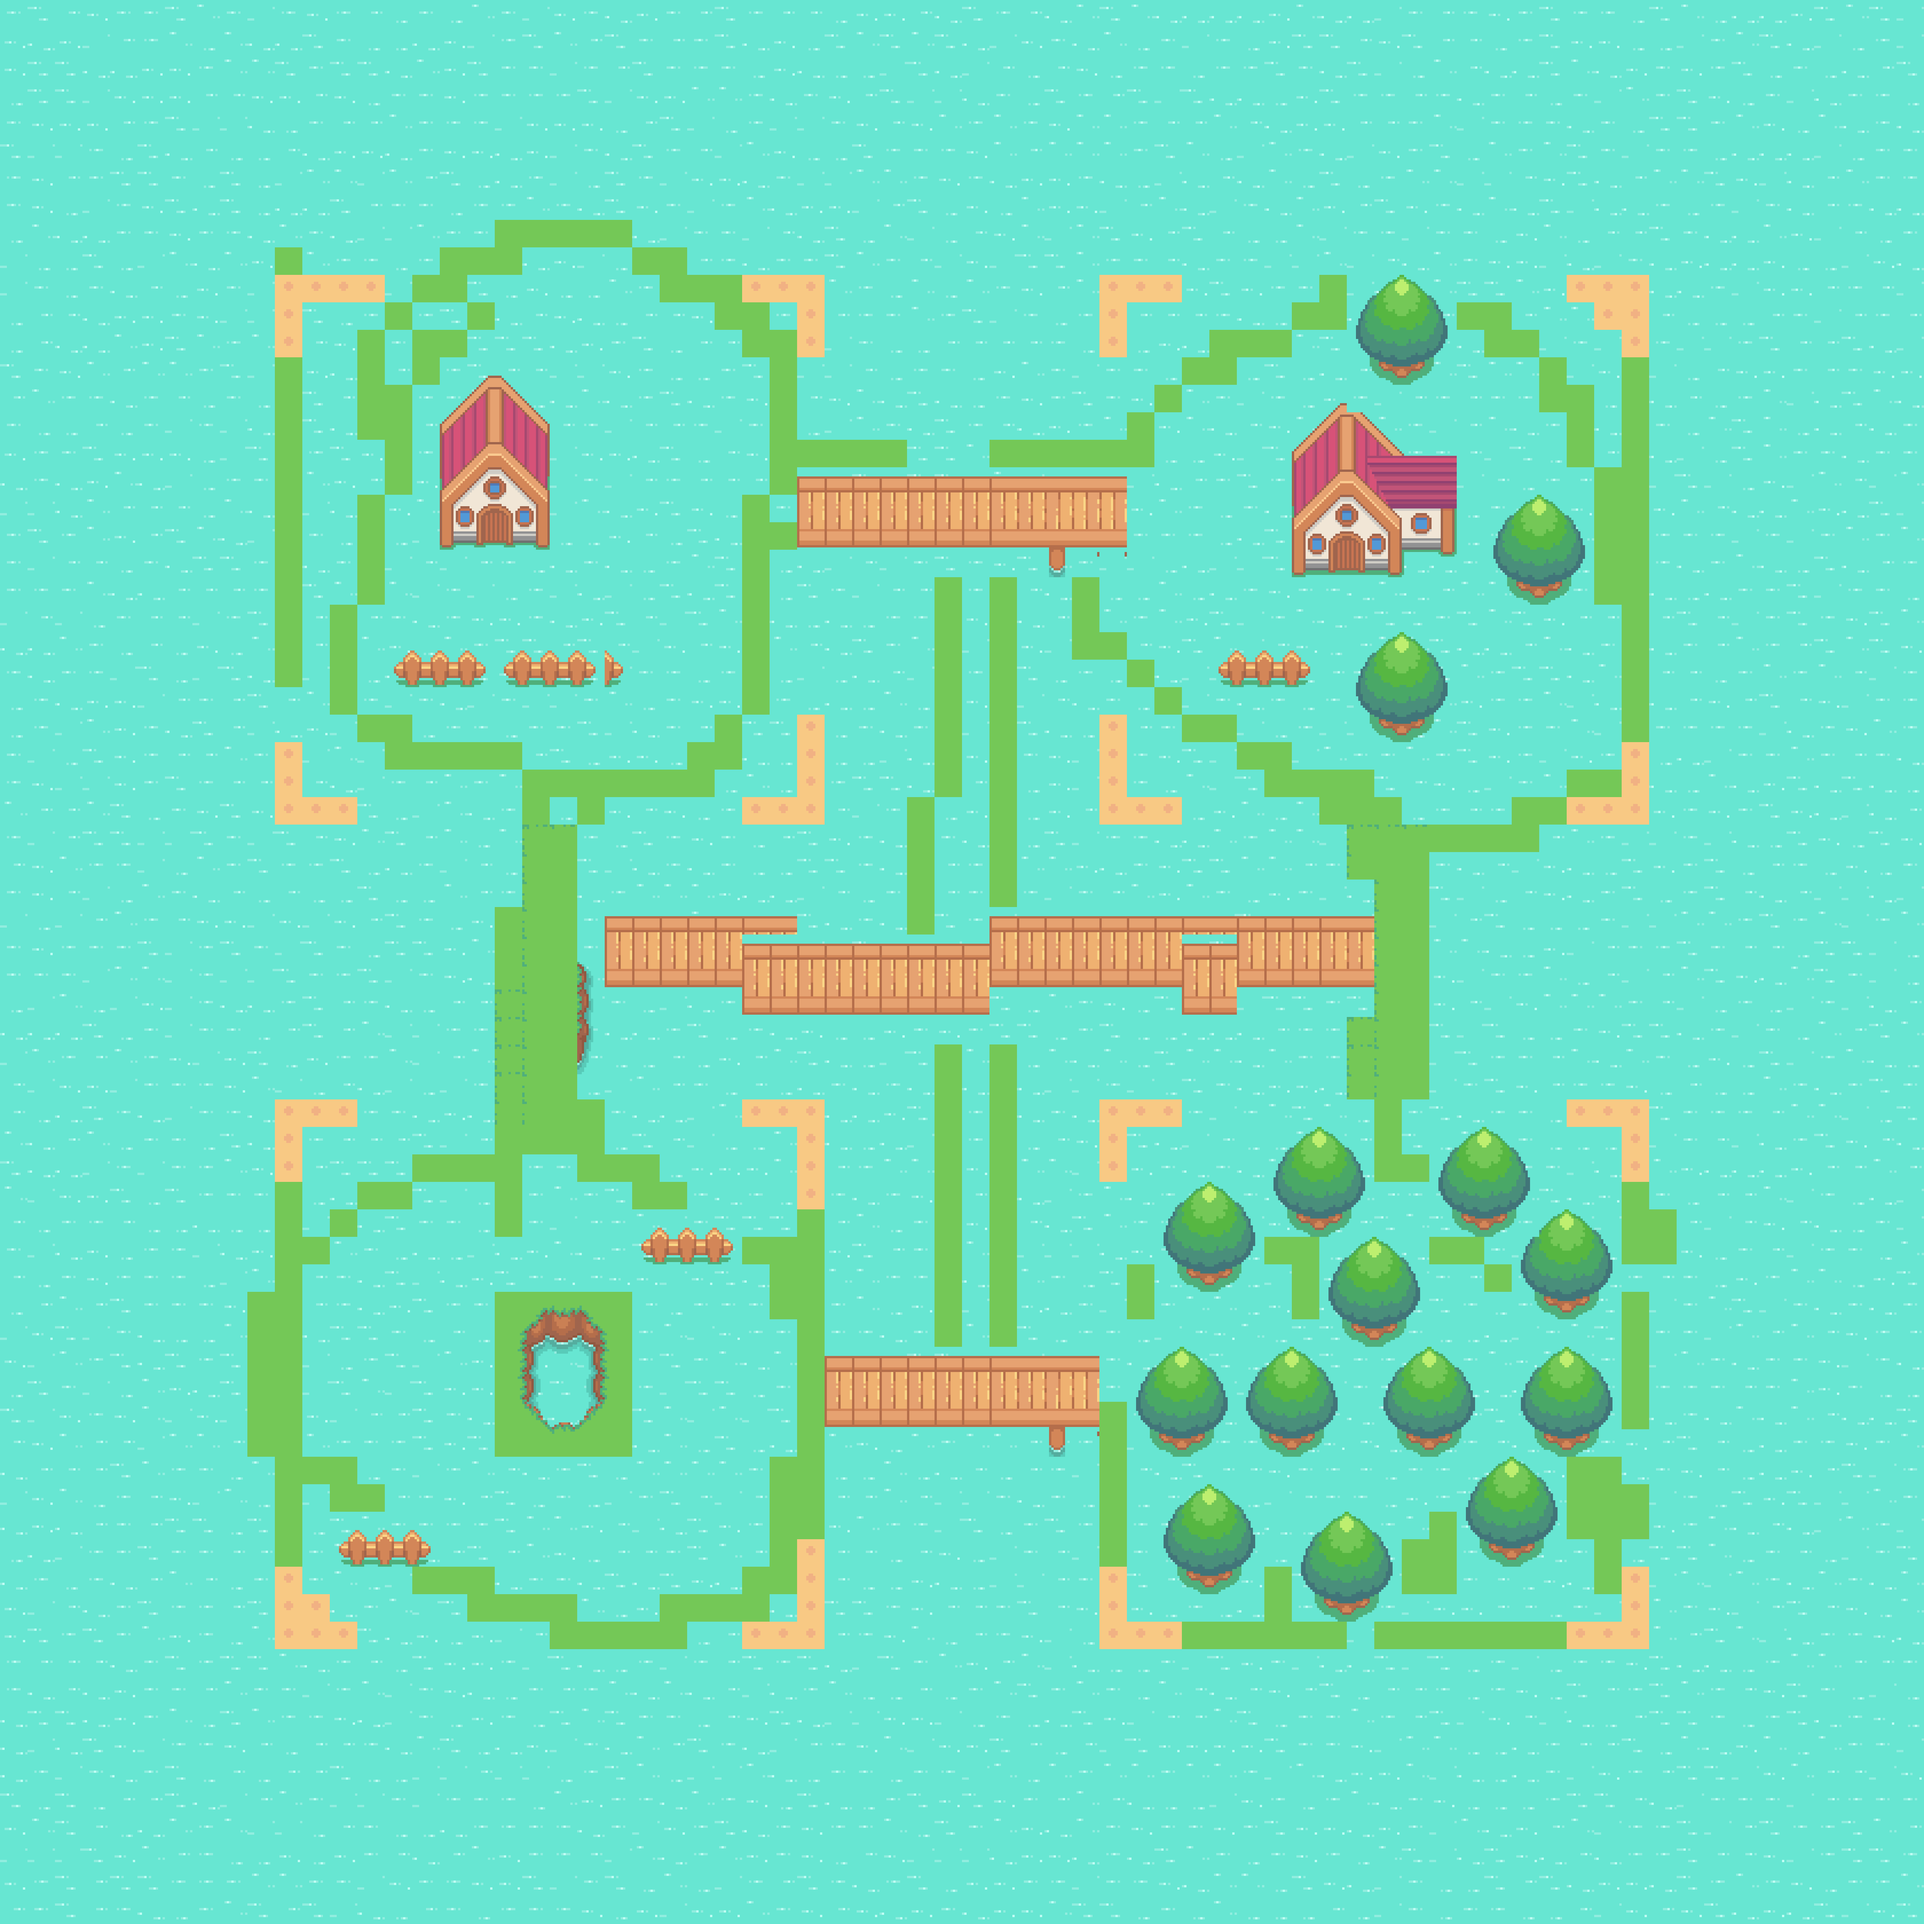
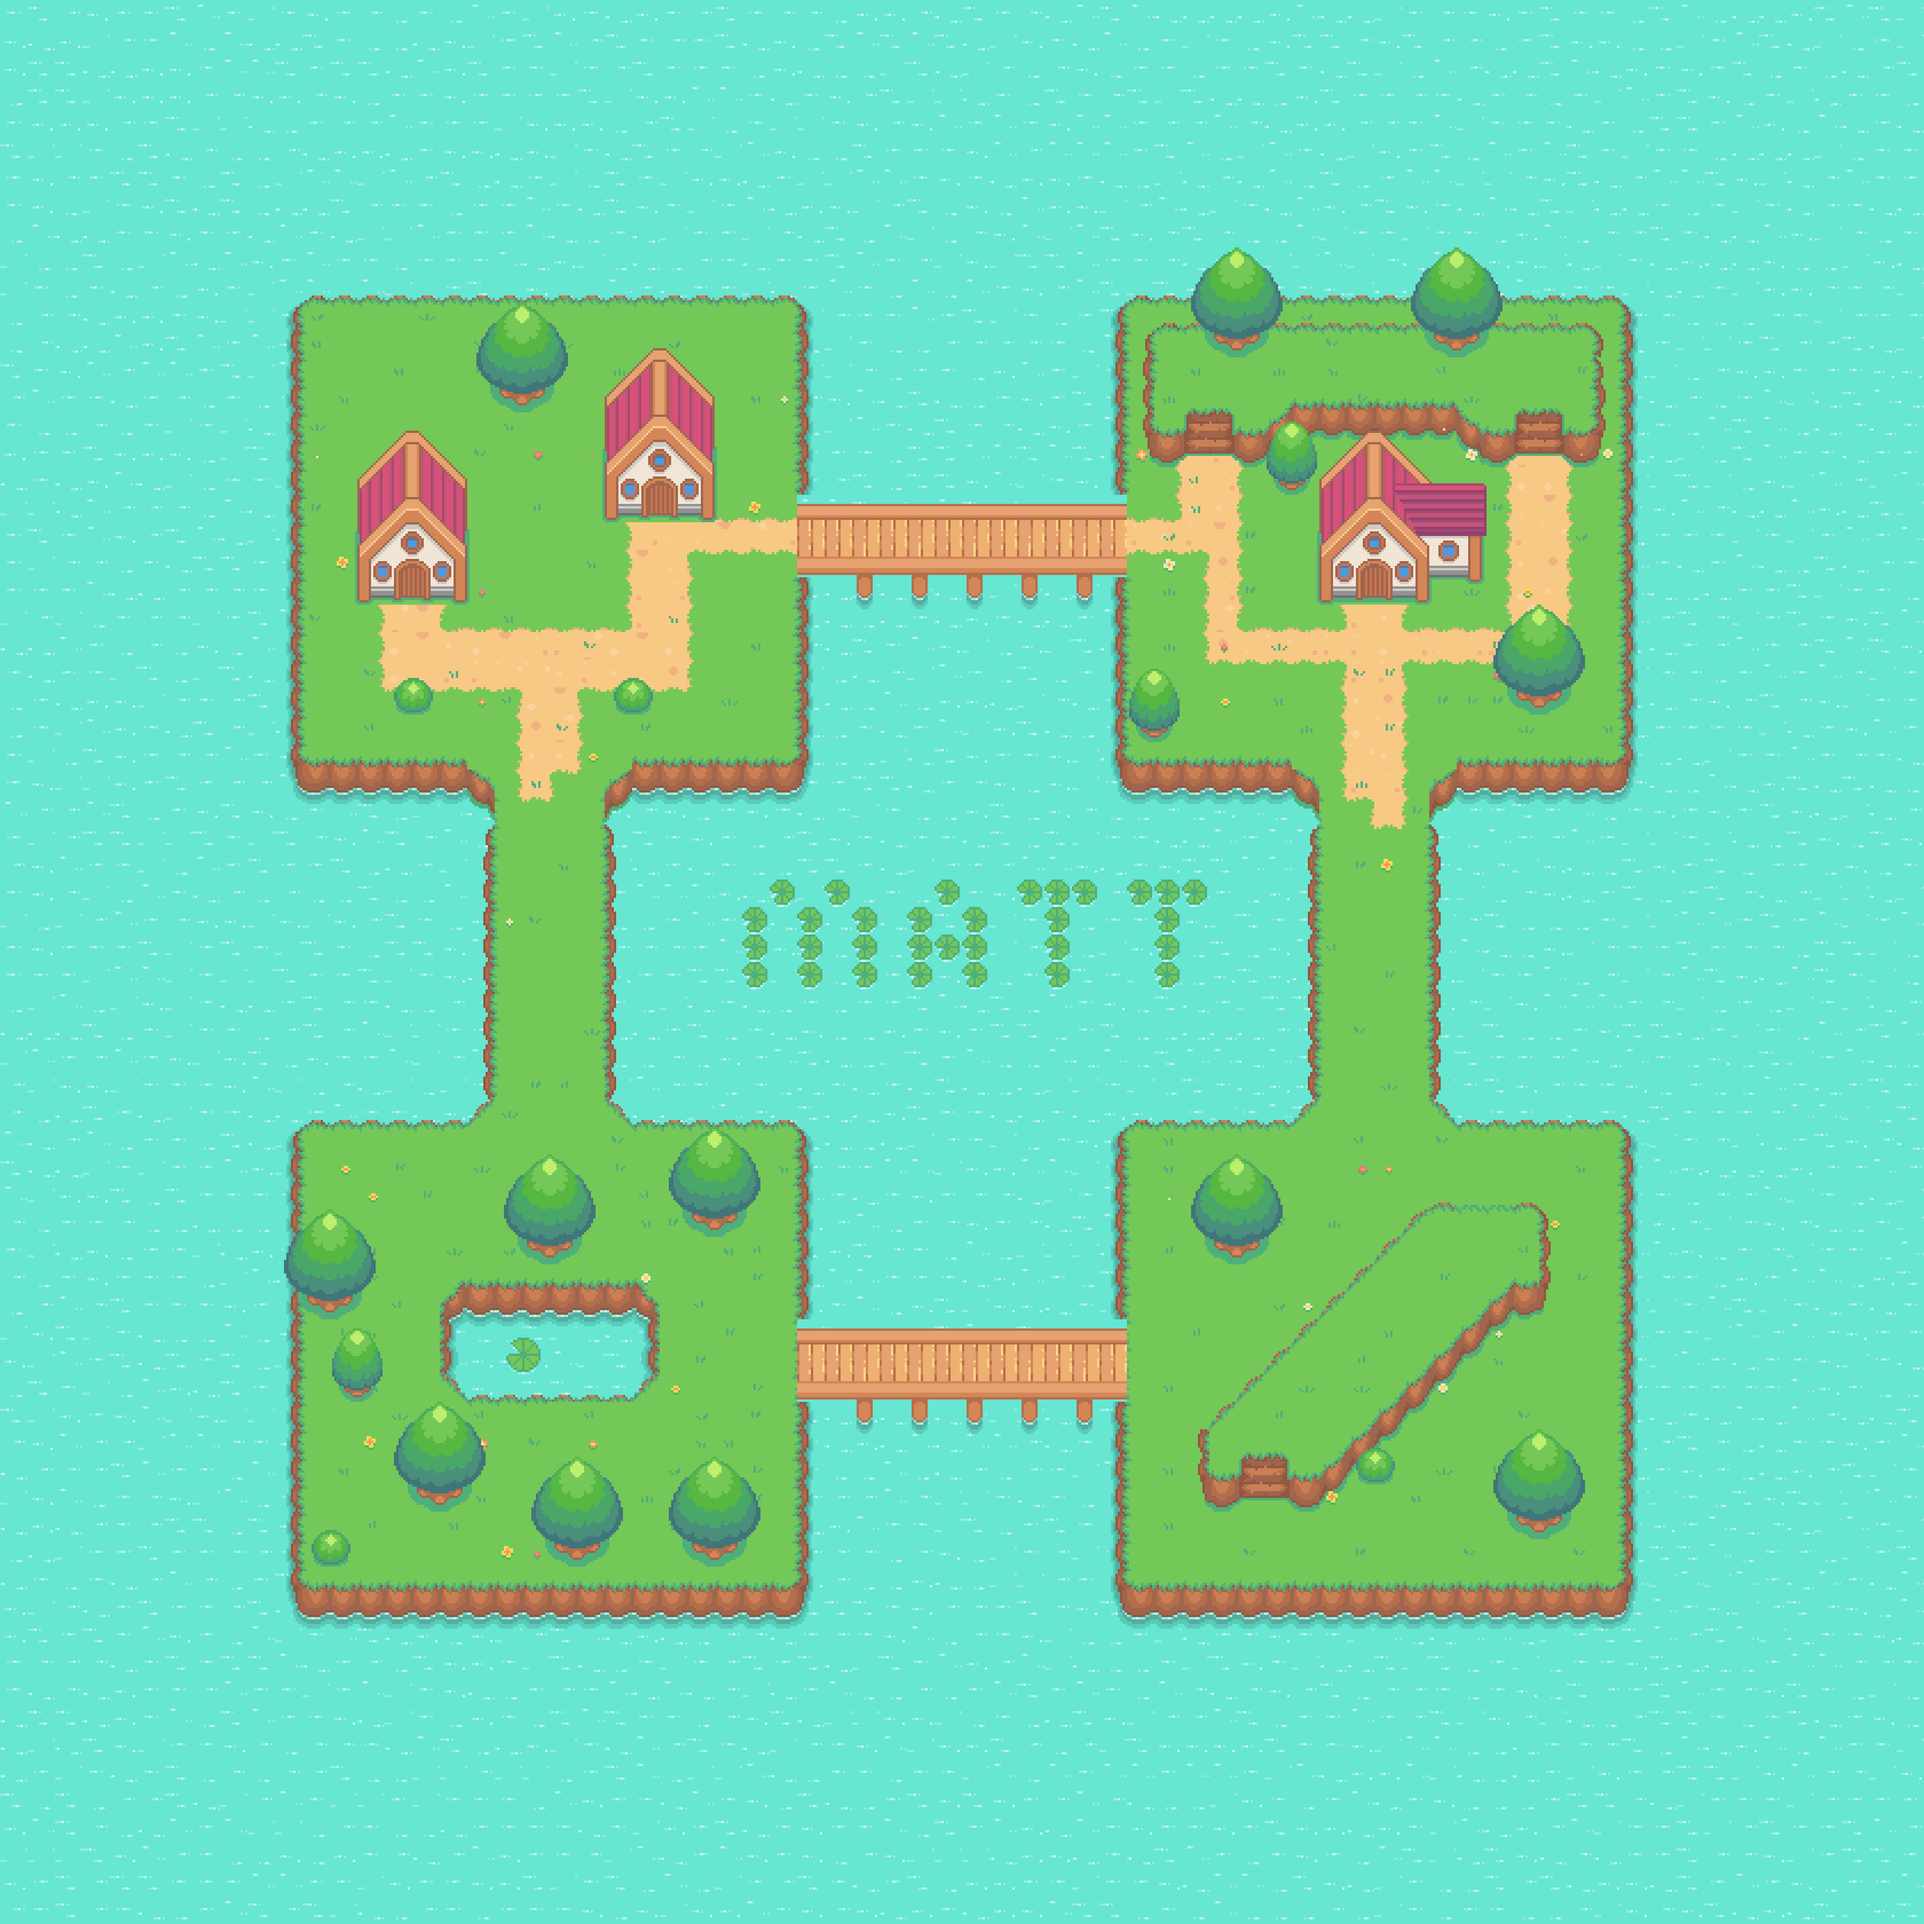
Adding in final map and collisions.

diff --git a/GameFrontend/src/scenes/PlayScene.ts b/GameFrontend/src/scenes/PlayScene.ts
@@ -85,7 +85,7 @@ export default class PlayScene implements IScene {
             y: 0,
         });
         this.#worldSprites["map_foreground"] = new Sprite({
-            url: "/assets/GameMap_Foreground.png",
+            url: "/assets/GameMapFinalForeground.png",
             x: 0,
             y: 0,
         });
@@ -108,7 +108,7 @@ export default class PlayScene implements IScene {
             this.height / 2
         );
 
-        this.#camera = new Camera(390, 700);
+        this.#camera = new Camera(390, 1100);
         this.#keyboard = new Keyboard();
         this.#connection.start().then(() => {
             this.sendUsernameToServer(username);
@@ -177,9 +177,9 @@ export default class PlayScene implements IScene {
 
         this.#worldSprites["map_foreground"].draw(ctx, this.#camera);
 
-        for (let boundary of this.#boundaries) {
-            boundary.draw(ctx, this.#camera);
-        }
+        // for (let boundary of this.#boundaries) {
+        //     boundary.draw(ctx, this.#camera);
+        // }
 
         text(ctx, 10, 10, this.#serverMessage, "40px Arial", "#FFFFFF");
     };

diff --git a/GameBackend/Services/GameService.cs b/GameBackend/Services/GameService.cs
@@ -118,8 +118,8 @@ namespace GameBackend.Services
 
             _players.Add(job.ConnectionId, new Player
             {
-                X = 911,
-                Y = 988,
+                X = 0,
+                Y = 0,
                 Direction = "down",
                 DidMove = false,
             });
